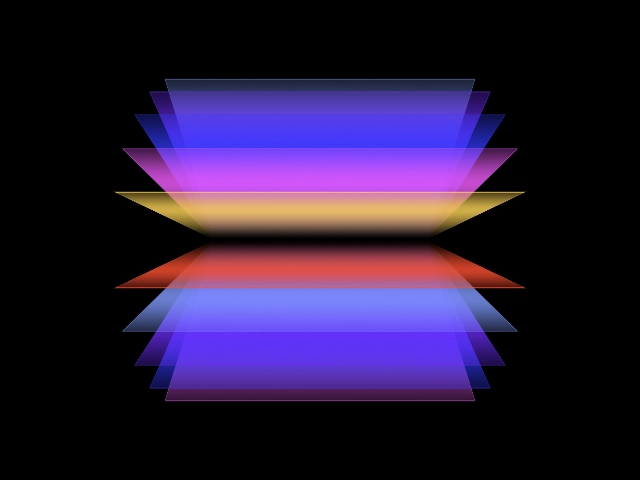
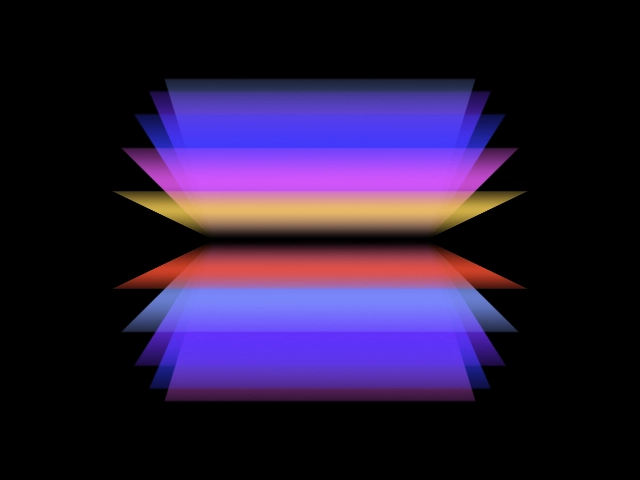
Update color panels

Changed region(s): [[0.2188, 0.375, 0.75, 0.4062], [0.25, 0.5938, 0.75, 0.625]]

diff --git a/docs/src/app/(shaders)/color-panels/page.tsx b/docs/src/app/(shaders)/color-panels/page.tsx
@@ -38,7 +38,7 @@ const ColorPanelsWithControls = () => {
       offsetY: { value: defaults.offsetY, min: -1, max: 1, order: 301 },
       scale: { value: defaults.scale, min: 0.01, max: 4, order: 302 },
       rotation: { value: defaults.rotation, min: 0, max: 360, order: 303 },
-      speed: { value: defaults.speed, min: 0, max: 2, order: 400 },
+      speed: { value: defaults.speed, min: 0, max: 4, order: 400 },
     };
   }, [colors.length]);
 

diff --git a/packages/shaders-react/src/shaders/color-panels.tsx b/packages/shaders-react/src/shaders/color-panels.tsx
@@ -26,7 +26,7 @@ export const defaultPreset: ColorPanelsPreset = {
     angle1: 0,
     angle2: 0,
     length: 1.1,
-    edges: true,
+    edges: false,
     blur: 0,
     fadeIn: 1,
     fadeOut: 0.3,
